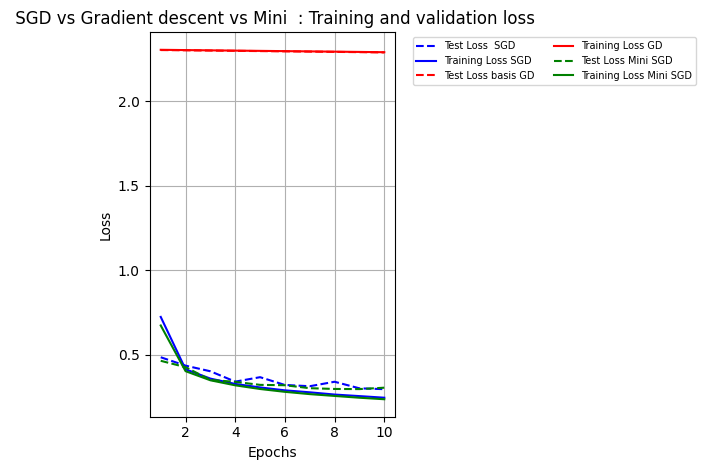
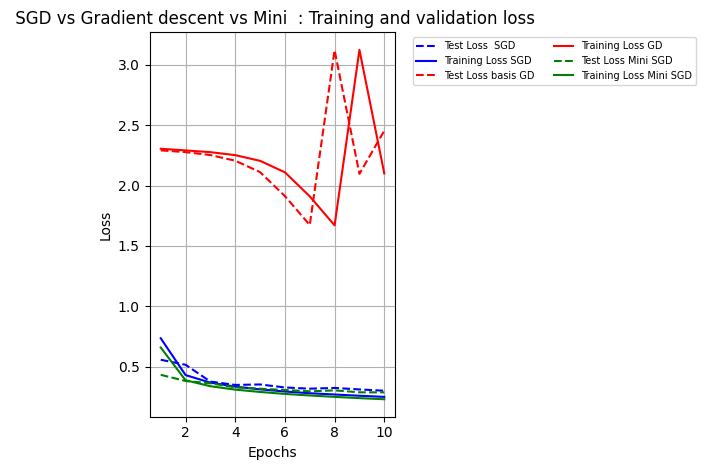
adasds

diff --git a/asg1/data/iterate_avg.py b/asg1/data/iterate_avg.py
@@ -1,0 +1,202 @@
+import torch
+import torch.nn as nn
+import torch.nn.functional as F
+import torch.optim as optim
+from torchvision import datasets, transforms, utils
+#import seaborn as sns
+import matplotlib.pyplot as plt
+import numpy as np
+from prettytable import PrettyTable
+
+#Global epochs
+n_epochs = 10
+
+seed = 42
+torch.manual_seed(seed)
+#random.seed(seed)
+np.random.seed(seed)
+torch.backends.cudnn.deterministic = True
+torch.backends.cudnn.benchmark = False
+
+# Download the MNIST dataset
+transform = transforms.ToTensor()
+train_dataset = datasets.FashionMNIST(root='./data', train=True, download=True, transform=transform)
+test_dataset = datasets.FashionMNIST(root='./data', train=False, download=True, transform=transform)
+
+print("number of training samples: " + str(len(train_dataset)) + "\n" +
+      "number of testing samples: " + str(len(test_dataset)))
+
+print("datatype of the 1st training sample: ", train_dataset[0][0].type())
+print("size of the 1st training sample: ", train_dataset[0][0].size())
+#Taking a average base size
+batch_size = 64
+
+train_loader = torch.utils.data.DataLoader(dataset=train_dataset, batch_size=batch_size, shuffle=True)
+test_loader = torch.utils.data.DataLoader(dataset=test_dataset, batch_size=batch_size, shuffle=False)
+
+
+
+## SGD
+class LeNet5_SGD(nn.Module):
+    def __init__(self):
+        super(LeNet5_SGD, self).__init__()
+        self.conv1 = nn.Conv2d(1, 6, kernel_size=5, stride=1)
+        self.conv2 = nn.Conv2d(6, 16, kernel_size=5, stride=1)
+        self.fc1 = nn.Linear(256, 120)
+        self.fc2 = nn.Linear(120, 84)
+        self.fc3 = nn.Linear(84, 10)
+
+    def forward(self, x):
+        x = torch.tanh(self.conv1(x))
+        x = torch.max_pool2d(x, kernel_size=2, stride=2)
+        x = torch.tanh(self.conv2(x))
+        x = torch.max_pool2d(x, kernel_size=2, stride=2)
+        x = x.view(-1, 256)
+        x = torch.tanh(self.fc1(x))
+        x = torch.tanh(self.fc2(x))
+        x = self.fc3(x)
+        return x
+
+
+def count_parameters(model):
+    table = PrettyTable(["Modules", "Parameters"])
+    total_params = 0
+    for name, parameter in model.named_parameters():
+        if not parameter.requires_grad:
+            continue
+        params = parameter.numel()
+        table.add_row([name, params])
+        total_params += params
+    print(table)
+    print(f"Total Trainable Params: {total_params}")
+    return total_params
+
+model = LeNet5_SGD()
+
+count_parameters(model)
+fc12_params = [p for name, p in model.named_parameters() if name in ['fc1.weight', 'fc2.weight']]
+print(fc12_params[0].numel())
+print(fc12_params[1].numel())
+
+# raise SystemExit
+
+# Training loop
+criterion = nn.CrossEntropyLoss()
+optimizer = optim.SGD(model.parameters(), lr= 0.35) #Intilize learning rate
+swa_model  = optim.swa_utils.AveragedModel(model) #Averaging model weights pr. iteration
+scheduler = optim.lr_scheduler.CosineAnnealingLR(optimizer,T_max=10) #It will change learning rate each time 
+
+
+train_losses = []
+test_losses = []
+
+step = 0
+for epoch in range(n_epochs):
+    model.train()
+    train_loss_SGD = 0
+    for i, (images, labels) in enumerate(train_loader):
+        optimizer.zero_grad()
+        output = model(images)
+        loss_SGD = criterion(output, labels)
+        train_loss_SGD += criterion(output, labels).item()
+        loss_SGD.backward()
+        optimizer.step()
+        step += 1
+    scheduler.step()
+    swa_model.update_parameters(model)
+    train_loss_SGD /= len(train_loader)
+    train_losses.append((step, train_loss_SGD))
+    print(f'Epoch {epoch}, Step {step}, Loss: {loss_SGD.item()}')
+
+    model.eval()
+    test_loss_SGD = 0
+    correct = 0
+    with torch.no_grad():
+        for images, labels in test_loader:
+            output = model(images)
+            test_loss_SGD += criterion(output, labels).item()
+            pred = torch.argmax(output, dim=1)
+            correct += pred.eq(labels).sum()
+
+    test_loss_SGD /= len(test_loader)
+    test_losses.append((step, test_loss_SGD))
+    print(f'Baseline SGD Test set: Average loss: {test_loss_SGD}, Train set: {train_loss_SGD} \
+        Accuracy: {correct}/{len(test_loader.dataset)} ({100. * correct / len(test_loader.dataset)}%)')
+  
+
+
+
+
+
+#  plot train and test losses for SGD Baseline
+train_steps, train_loss_SGD = zip(*train_losses)
+test_steps, test_loss_SGD = zip(*test_losses)
+
+
+plt.plot(range(1,n_epochs+1), test_loss_SGD, label='Test Loss  SGD', linestyle='--', color = 'blue')
+plt.plot(range(1,n_epochs+1), train_loss_SGD, label='Training Loss SGD',color='blue')
+
+
+plt.title(' SGD Exponential decreasing learning rate:Training and validation loss')
+plt.xlabel('Epochs')
+plt.ylabel('Loss')
+plt.grid(True)
+#Creating a box that isn't too large
+plt.tight_layout()
+plt.savefig('SGD_iteatemethod.png', bbox_inches='tight')
+plt.show()
+
+
+
+
+
+# Create data loaders.
+
+
+# Epoch 0, Step 1, Loss: 2.2992544174194336
+# full batch size SGD Test set: Average loss: 2.2760017191528514, Train set: 2.2992544174194336         Accuracy: 1144/10000 (11.4399995803833%)
+# Epoch 1, Step 2, Loss: 2.2758026123046875
+# full batch size SGD Test set: Average loss: 2.2433934561006583, Train set: 2.2758026123046875         Accuracy: 3138/10000 (31.3799991607666%)
+# Epoch 2, Step 3, Loss: 2.2430551052093506
+# full batch size SGD Test set: Average loss: 2.1894149977690094, Train set: 2.2430551052093506         Accuracy: 3585/10000 (35.849998474121094%)
+# Epoch 3, Step 4, Loss: 2.1889073848724365
+# full batch size SGD Test set: Average loss: 2.101333569569193, Train set: 2.1889073848724365         Accuracy: 4402/10000 (44.02000045776367%)
+# Epoch 4, Step 5, Loss: 2.1006367206573486
+# full batch size SGD Test set: Average loss: 1.967674787636775, Train set: 2.1006367206573486         Accuracy: 4718/10000 (47.18000030517578%)
+# Epoch 5, Step 6, Loss: 1.9668816328048706
+# full batch size SGD Test set: Average loss: 1.8115000550154667, Train set: 1.9668816328048706         Accuracy: 4752/10000 (47.52000045776367%)
+# Epoch 6, Step 7, Loss: 1.8107725381851196
+# full batch size SGD Test set: Average loss: 1.6900820193017365, Train set: 1.8107725381851196         Accuracy: 4867/10000 (48.66999816894531%)
+# Epoch 7, Step 8, Loss: 1.6894973516464233
+# full batch size SGD Test set: Average loss: 1.623711497920334, Train set: 1.6894973516464233         Accuracy: 4961/10000 (49.61000061035156%)
+# Epoch 8, Step 9, Loss: 1.6232185363769531
+# full batch size SGD Test set: Average loss: 1.5959555457352073, Train set: 1.6232185363769531         Accuracy: 4994/10000 (49.939998626708984%)
+# Epoch 9, Step 10, Loss: 1.5954980850219727
+# full batch size SGD Test set: Average loss: 1.589197133756747, Train set: 1.5954980850219727         Accuracy: 5005/10000 (50.04999923706055%)
+# Training loop
+# criterion = nn.CrossEntropyLoss()
+# optimizer = optim.SGD(model.parameters(), lr= 0.9) #Intilize learning rate
+# swa_model  = optim.swa_utils.AveragedModel(model) #Averaging model weights pr. iteration
+# scheduler = optim.lr_scheduler.CosineAnnealingLR(optimizer,T_max=10) #It will change learning rate each time
+
+
+# Epoch 0, Step 938, Loss: 0.455269455909729
+# Baseline SGD Test set: Average loss: 0.44186134180825226, Train set: 0.5741125271518601         Accuracy: 8385/10000 (83.8499984741211%)
+# Epoch 1, Step 1876, Loss: 0.34925949573516846
+# Baseline SGD Test set: Average loss: 0.38076501107139954, Train set: 0.3621360699552844         Accuracy: 8583/10000 (85.83000183105469%)
+# Epoch 2, Step 2814, Loss: 0.21631628274917603
+# Baseline SGD Test set: Average loss: 0.3425143601693166, Train set: 0.31407840213160526         Accuracy: 8728/10000 (87.27999877929688%)
+# Epoch 3, Step 3752, Loss: 0.4887586236000061
+# Baseline SGD Test set: Average loss: 0.33331062744377526, Train set: 0.2789913438705366         Accuracy: 8777/10000 (87.7699966430664%)
+# Epoch 4, Step 4690, Loss: 0.18647176027297974
+# Baseline SGD Test set: Average loss: 0.28906063336855287, Train set: 0.2512660244825298         Accuracy: 8947/10000 (89.47000122070312%)
+# Epoch 5, Step 5628, Loss: 0.2354133129119873
+# Baseline SGD Test set: Average loss: 0.29549975005114915, Train set: 0.22797275744060844         Accuracy: 8931/10000 (89.30999755859375%)
+# Epoch 6, Step 6566, Loss: 0.28161054849624634
+# Baseline SGD Test set: Average loss: 0.2752798169281832, Train set: 0.2097631217296253         Accuracy: 9001/10000 (90.01000213623047%)
+# Epoch 7, Step 7504, Loss: 0.11021572351455688
+# Baseline SGD Test set: Average loss: 0.2738002862330455, Train set: 0.19840931143365434         Accuracy: 9024/10000 (90.23999786376953%)
+# Epoch 8, Step 8442, Loss: 0.14891542494297028
+# Baseline SGD Test set: Average loss: 0.2738002862330455, Train set: 0.19533936651562578         Accuracy: 9024/10000 (90.23999786376953%)
+# Epoch 9, Step 9380, Loss: 0.19648505747318268
+# Baseline SGD Test set: Average loss: 0.2738891867980076, Train set: 0.196624319625101         Accuracy: 9017/10000 (90.16999816894531%)

diff --git a/asg1/data/Batch.py b/asg1/data/Batch.py
@@ -208,7 +208,7 @@ print(fc12_params[1].numel())
 
 # Training loop
 criterion = nn.CrossEntropyLoss()
-optimizer = optim.SGD(model.parameters(), lr= 1)
+optimizer = optim.SGD(model.parameters(), lr= 0.9)
 
 
 train_losses_fGS = []
@@ -259,7 +259,7 @@ for X, y in test_loader:
     break
 
 
-# Define the model Not with Momemtum
+## SGD
 class LeNet5_SGD(nn.Module):
     def __init__(self):
         super(LeNet5_SGD, self).__init__()
@@ -340,7 +340,7 @@ for epoch in range(n_epochs):
     test_loss_SGD /= len(test_loader)
     test_losses.append((step, test_loss_SGD))
     print(f'Baseline SGD Test set: Average loss: {test_loss_SGD}, Train set: {train_loss_SGD} \
-        Accuracy: {correct}/{len(test_loader)} ({100. * correct / len(test_loader.dataset)}%)')
+        Accuracy: {correct}/{len(test_loader.dataset)} ({100. * correct / len(test_loader.dataset)}%)')
   
 
 
@@ -383,3 +383,106 @@ plt.tight_layout()
 plt.savefig('SGDvsfullSGD.png', bbox_inches='tight')
 plt.show()
 
+
+# Epoch 0, Step 12000, Loss: 0.18764866888523102
+# Mini SGD Test set: Average loss: 0.4333452764590075, Train set: 0.6592818779537144         Accuracy: 8429/10000 (84.29000091552734%)
+# Epoch 1, Step 24000, Loss: 0.7720698714256287
+# Mini SGD Test set: Average loss: 0.38226827884175973, Train set: 0.3883578435268913         Accuracy: 8601/10000 (86.01000213623047%)
+# Epoch 2, Step 36000, Loss: 0.5037024021148682
+# Mini SGD Test set: Average loss: 0.3630763161334263, Train set: 0.3390231965318186         Accuracy: 8674/10000 (86.73999786376953%)
+# Epoch 3, Step 48000, Loss: 0.02052803710103035
+# Mini SGD Test set: Average loss: 0.3298624603991296, Train set: 0.31097554669257566         Accuracy: 8815/10000 (88.1500015258789%)
+# Epoch 4, Step 60000, Loss: 0.18592920899391174
+# Mini SGD Test set: Average loss: 0.3183241964905125, Train set: 0.2914770603387345         Accuracy: 8835/10000 (88.3499984741211%)
+# Epoch 5, Step 72000, Loss: 0.33072593808174133
+# Mini SGD Test set: Average loss: 0.3076916441890844, Train set: 0.27521272502440114         Accuracy: 8905/10000 (89.05000305175781%)
+# Epoch 6, Step 84000, Loss: 0.44478192925453186
+# Mini SGD Test set: Average loss: 0.29677916104626506, Train set: 0.2624731833848273         Accuracy: 8922/10000 (89.22000122070312%)
+# Epoch 7, Step 96000, Loss: 0.9116008877754211
+# Mini SGD Test set: Average loss: 0.30449887127823133, Train set: 0.2508949779036011         Accuracy: 8890/10000 (88.9000015258789%)
+# Epoch 8, Step 108000, Loss: 0.08856727182865143
+# Mini SGD Test set: Average loss: 0.2885714533507444, Train set: 0.24027986404110682         Accuracy: 8980/10000 (89.80000305175781%)
+# Epoch 9, Step 120000, Loss: 0.021943364292383194
+# Mini SGD Test set: Average loss: 0.28829763478534237, Train set: 0.23117498861937322         Accuracy: 8975/10000 (89.75%)
+# number of training samples: 60000
+# number of testing samples: 10000
+# datatype of the 1st training sample:  torch.FloatTensor
+# size of the 1st training sample:  torch.Size([1, 28, 28])
+# Shape of X [N, C, H, W]: torch.Size([64, 1, 28, 28])
+# Shape of y: torch.Size([64]) torch.int64
+# +--------------+------------+
+# |   Modules    | Parameters |
+# +--------------+------------+
+# | conv1.weight |    150     |
+# |  conv1.bias  |     6      |
+# | conv2.weight |    2400    |
+# |  conv2.bias  |     16     |
+# |  fc1.weight  |   30720    |
+# |   fc1.bias   |    120     |
+# |  fc2.weight  |   10080    |
+# |   fc2.bias   |     84     |
+# |  fc3.weight  |    840     |
+# |   fc3.bias   |     10     |
+# +--------------+------------+
+# Total Trainable Params: 44426
+# 30720
+# 10080
+# Epoch 0, Step 1, Loss: 2.3046462535858154
+# full batch size SGD Test set: Average loss: 2.2898607223656526, Train set: 2.3046462535858154         Accuracy: 1000/10000 (10.0%)
+# Epoch 1, Step 2, Loss: 2.2895519733428955
+# full batch size SGD Test set: Average loss: 2.2732411858382497, Train set: 2.2895519733428955         Accuracy: 1824/10000 (18.239999771118164%)
+# Epoch 2, Step 3, Loss: 2.2727773189544678
+# full batch size SGD Test set: Average loss: 2.2425775421652823, Train set: 2.2727773189544678         Accuracy: 2985/10000 (29.850000381469727%)
+# Epoch 3, Step 4, Loss: 2.241830825805664
+# full batch size SGD Test set: Average loss: 2.179340976059057, Train set: 2.241830825805664         Accuracy: 3321/10000 (33.209999084472656%)
+# Epoch 4, Step 5, Loss: 2.1781065464019775
+# full batch size SGD Test set: Average loss: 2.03864710346149, Train set: 2.1781065464019775         Accuracy: 4487/10000 (44.869998931884766%)
+# Epoch 5, Step 6, Loss: 2.036863327026367
+# full batch size SGD Test set: Average loss: 1.7564407670573823, Train set: 2.036863327026367         Accuracy: 4682/10000 (46.81999969482422%)
+# Epoch 6, Step 7, Loss: 1.7546576261520386
+# full batch size SGD Test set: Average loss: 1.8138067243964808, Train set: 1.7546576261520386         Accuracy: 3139/10000 (31.389999389648438%)
+# Epoch 7, Step 8, Loss: 1.80947744846344
+# full batch size SGD Test set: Average loss: 2.5322526093501194, Train set: 1.80947744846344         Accuracy: 945/10000 (9.449999809265137%)
+# Epoch 8, Step 9, Loss: 2.5304126739501953
+# full batch size SGD Test set: Average loss: 2.394351989600309, Train set: 2.5304126739501953         Accuracy: 1768/10000 (17.68000030517578%)
+# Epoch 9, Step 10, Loss: 2.3963096141815186
+# full batch size SGD Test set: Average loss: 2.11471440457994, Train set: 2.3963096141815186         Accuracy: 1604/10000 (16.040000915527344%)
+# Shape of X [N, C, H, W]: torch.Size([64, 1, 28, 28])
+# Shape of y: torch.Size([64]) torch.int64
+# +--------------+------------+
+# |   Modules    | Parameters |
+# +--------------+------------+
+# | conv1.weight |    150     |
+# |  conv1.bias  |     6      |
+# | conv2.weight |    2400    |
+# |  conv2.bias  |     16     |
+# |  fc1.weight  |   30720    |
+# |   fc1.bias   |    120     |
+# |  fc2.weight  |   10080    |
+# |   fc2.bias   |     84     |
+# |  fc3.weight  |    840     |
+# |   fc3.bias   |     10     |
+# +--------------+------------+
+# Total Trainable Params: 44426
+# 30720
+# 10080
+# Epoch 0, Step 938, Loss: 0.7700589895248413
+# Baseline SGD Test set: Average loss: 0.5581217858062428, Train set: 0.7361105777847488         Accuracy: 7838/157 (78.37999725341797%)
+# Epoch 1, Step 1876, Loss: 0.48054784536361694
+# Baseline SGD Test set: Average loss: 0.5164653434874905, Train set: 0.43128219543934376         Accuracy: 7967/157 (79.66999816894531%)
+# Epoch 2, Step 2814, Loss: 0.3495858609676361
+# Baseline SGD Test set: Average loss: 0.3773086298802856, Train set: 0.3686265293627914         Accuracy: 8616/157 (86.16000366210938%)
+# Epoch 3, Step 3752, Loss: 0.09479450434446335
+# Baseline SGD Test set: Average loss: 0.34974200017512985, Train set: 0.3354985183363022         Accuracy: 8731/157 (87.30999755859375%)
+# Epoch 4, Step 4690, Loss: 0.5822596549987793
+# Baseline SGD Test set: Average loss: 0.35362001418308087, Train set: 0.3130413601790537         Accuracy: 8702/157 (87.0199966430664%)
+# Epoch 5, Step 5628, Loss: 0.1348230093717575
+# Baseline SGD Test set: Average loss: 0.32878074908901933, Train set: 0.29516055106099987         Accuracy: 8777/157 (87.7699966430664%)
+# Epoch 6, Step 6566, Loss: 0.5123618841171265
+# Baseline SGD Test set: Average loss: 0.3187098038519264, Train set: 0.281045419773631         Accuracy: 8851/157 (88.51000213623047%)
+# Epoch 7, Step 7504, Loss: 0.22133305668830872
+# Baseline SGD Test set: Average loss: 0.32485921078237, Train set: 0.27044916211732667         Accuracy: 8818/157 (88.18000030517578%)
+# Epoch 8, Step 8442, Loss: 0.1285751760005951
+# Baseline SGD Test set: Average loss: 0.3124188157688281, Train set: 0.26017047404480387         Accuracy: 8848/157 (88.4800033569336%)
+# Epoch 9, Step 9380, Loss: 0.24161110818386078
+# Baseline SGD Test set: Average loss: 0.30183710803271857, Train set: 0.25069897447917255         Accuracy: 8869/157 (88.69000244140625%)
